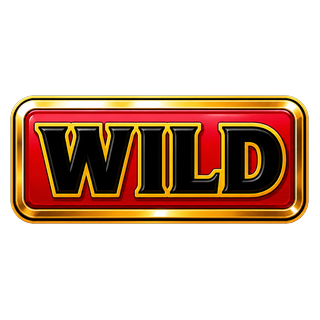
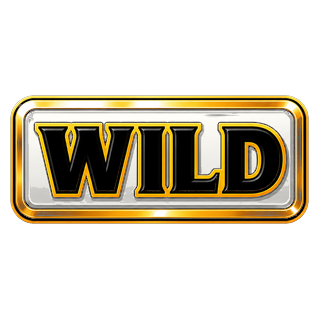
WILD 改白底、爽快版機率：中獎 60%、每 4 局大獎、每 50 局全盤水果
- WILD 底板由紅色改成白色（金框與黑字不變）
- 重新調整輪帶與權重：押滿 8 線中獎約 60%、大獎約每 4 局、全盤水果（總押注 ×100）約每 50 局
- 中間輪改為 3 個 WILD，約每 4 局畫面上出現一次
- 回饋率約 330%，餘額會越玩越多（上限 999,990 元）

Changed region(s): [[0.0312, 0.3438, 0.9688, 0.6875], [0.75, 0.4375, 0.8125, 0.5625]]

diff --git a/core.js b/core.js
@@ -36,22 +36,22 @@
     { name: '右斜', cells: [[2, 0], [1, 1], [0, 2]] },
   ];
 
-  // 三條輪帶（由上往下捲，各 30 格）。每輪都有一段連續三個 77；WILD 只在中間那一輪（2 個，約每 4–5 局畫面上會出現一次）。
-  // tools/sim.js 依權重精算（押滿 8 線）：約每 2 局中 1 次、每 6.5 局 1 次大獎，回饋率約 97%；
-  // 依序開放的任何線數（1–8 線）回饋率都低於 100%。
+  // 三條輪帶（由上往下捲，各 30 格）。每輪都有一段連續三個 77；WILD 只在中間那一輪（約每 4 局畫面上會出現一次）。
+  // tools/sim.js 依權重精算（押滿 8 線）：中獎約 60%、大獎約每 4 局、全盤水果約每 50 局一次。
+  // 這是「爽快版」設定：全盤水果總押注 ×100 又常出現，整體回饋率遠高於 100%，餘額會越玩越多。
   const REELS = [
-    ['orange', 'melon', 'bar1', 'seven', 'seven', 'seven', 'star', 'orange', 'orange', 'bell', 'bar2', 'melon', 'bell', 'bar3', 'cherry',
-      'bar2', 'bell', 'star', 'cherry', 'cherry', 'star', 'orange', 'bell', 'star', 'bar2', 'bell', 'orange', 'star', 'orange', 'melon'],
-    ['cherry', 'bar3', 'bell', 'star', 'melon', 'melon', 'bar1', 'star', 'melon', 'cherry', 'wild', 'star', 'cherry', 'bell', 'bar2',
-      'seven', 'seven', 'seven', 'orange', 'bar1', 'bell', 'bar1', 'orange', 'melon', 'star', 'bar1', 'star', 'melon', 'wild', 'bar2'],
-    ['bar1', 'orange', 'bell', 'melon', 'orange', 'cherry', 'bar1', 'melon', 'orange', 'bar3', 'melon', 'orange', 'bar1', 'bar3', 'cherry',
-      'cherry', 'bell', 'bar3', 'melon', 'bell', 'bell', 'star', 'seven', 'seven', 'seven', 'bar2', 'bar3', 'orange', 'bell', 'melon'],
+    ['orange', 'bar3', 'melon', 'seven', 'seven', 'seven', 'cherry', 'orange', 'orange', 'bell', 'star', 'orange', 'bar1', 'melon', 'bar1',
+      'bar1', 'bar2', 'orange', 'cherry', 'cherry', 'bell', 'orange', 'bell', 'bell', 'orange', 'melon', 'cherry', 'bell', 'orange', 'cherry'],
+    ['cherry', 'wild', 'seven', 'melon', 'orange', 'cherry', 'bell', 'bar3', 'cherry', 'orange', 'wild', 'bar2', 'bar3', 'bell', 'seven',
+      'seven', 'seven', 'cherry', 'bar3', 'bell', 'bell', 'orange', 'star', 'melon', 'orange', 'melon', 'melon', 'orange', 'wild', 'bar1'],
+    ['star', 'orange', 'bell', 'star', 'bar3', 'bell', 'star', 'cherry', 'cherry', 'melon', 'melon', 'orange', 'melon', 'bar1', 'bell',
+      'orange', 'bar1', 'bar2', 'bar3', 'orange', 'melon', 'bar1', 'seven', 'seven', 'seven', 'cherry', 'bell', 'star', 'melon', 'melon'],
   ];
   // 每個停點的權重（虛擬輪帶）：疊 77 附近的停點權重很小——每圈都看得到它轉過去，但很少停在那裡
   const WEIGHTS = [
-    [6, 1, 1, 1, 12, 1, 34, 54, 1, 19, 3, 1, 1, 1, 1, 25, 26, 36, 41, 16, 5, 43, 55, 24, 48, 24, 8, 6, 58, 3],
-    [1, 16, 24, 57, 8, 57, 20, 31, 27, 19, 12, 1, 1, 6, 1, 1, 1, 4, 60, 10, 47, 46, 32, 8, 25, 16, 29, 16, 38, 1],
-    [34, 25, 14, 14, 13, 6, 10, 54, 9, 46, 20, 41, 4, 37, 55, 8, 22, 23, 28, 2, 1, 1, 1, 1, 1, 1, 60, 16, 22, 33],
+    [1, 1, 1, 1, 5, 10, 40, 60, 13, 14, 8, 10, 1, 3, 6, 11, 4, 44, 59, 18, 8, 40, 45, 37, 60, 20, 8, 4, 53, 1],
+    [10, 1, 47, 57, 7, 60, 10, 53, 31, 11, 14, 16, 15, 18, 1, 2, 28, 10, 41, 2, 25, 41, 43, 27, 26, 18, 40, 20, 60, 1],
+    [30, 44, 23, 23, 33, 14, 1, 60, 25, 45, 24, 37, 3, 34, 41, 4, 17, 30, 50, 28, 7, 1, 1, 1, 3, 6, 44, 9, 9, 54],
   ];
 
   /** 輪帶停在 stop 時，畫面上由上到下的三個圖 */

diff --git a/README.md b/README.md
@@ -49,7 +49,7 @@
 | 全盤水果（九格都是櫻桃/橘子/西瓜，WILD 也算） | 總押注 ×100（另加線上的獎） |
 
 **WILD 百搭**：可以當成任何圖示。WILD＋兩個相同圖示就算三個一樣（例如 WILD＋西瓜＋西瓜 = 西瓜 ×3），
-也能湊任意 BAR、湊櫻桃；一條線上有 WILD 時自動算成最划算的組合。WILD 只出現在中間那一輪（輪上有 2 個，約每 4–5 局畫面上會看到一次）。
+也能湊任意 BAR、湊櫻桃；一條線上有 WILD 時自動算成最划算的組合。WILD 只出現在中間那一輪（白底金框，輪上有 3 個，約每 4 局畫面上會看到一次）。
 
 **畫面上 77 的數量**（九格任意位置，WILD 不算；× 每線押注，另加線上的獎）：
 
@@ -62,10 +62,11 @@
 三條輪帶各 30 格，每格有自己的權重（虛擬輪帶）：每輪都有一段連續三個 77，每圈都看得到它轉過去，
 但停在那裡的權重很小，所以 77 大獎很罕見。押滿 8 線時（`node tools/sim.js` 依權重精算的結果）：
 
-- **中獎**：約每 2 局 1 次（49%）
-- **大獎**（單局贏得 ≥ 總押注 3 倍，會播大獎音效並顯示「大獎」）：約每 6.5 局 1 次（15%）
-- **回饋率**：約 97%（不含比倍）；押 1–7 線時也都低於 100%
-- 全盤水果約 9,000 局一次；畫面上 5 個 77 約 1 萬局一次、6 個 77 約 10 萬局一次，7–9 個 77 是數百萬局才一次的超級大獎
+- **中獎**：約每 1.7 局 1 次（60%）
+- **大獎**（單局贏得 ≥ 總押注 3 倍，會播大獎音效並顯示「大獎」）：約每 4 局 1 次（25%）
+- **全盤水果**（總押注 ×100）：約每 50 局一次
+- **回饋率**：約 330%（不含比倍）——這是「爽快版」設定，餘額會越玩越多，最多到 999,990 元
+- 畫面上 5 個 77 約 7,500 局一次、6 個 77 約 9 萬局一次，7–9 個 77 是百萬局以上才一次的超級大獎
 
 輪帶與權重在 `core.js` 的 `REELS`、`WEIGHTS`，改完請跑 `node tools/sim.js` 重算。
 
